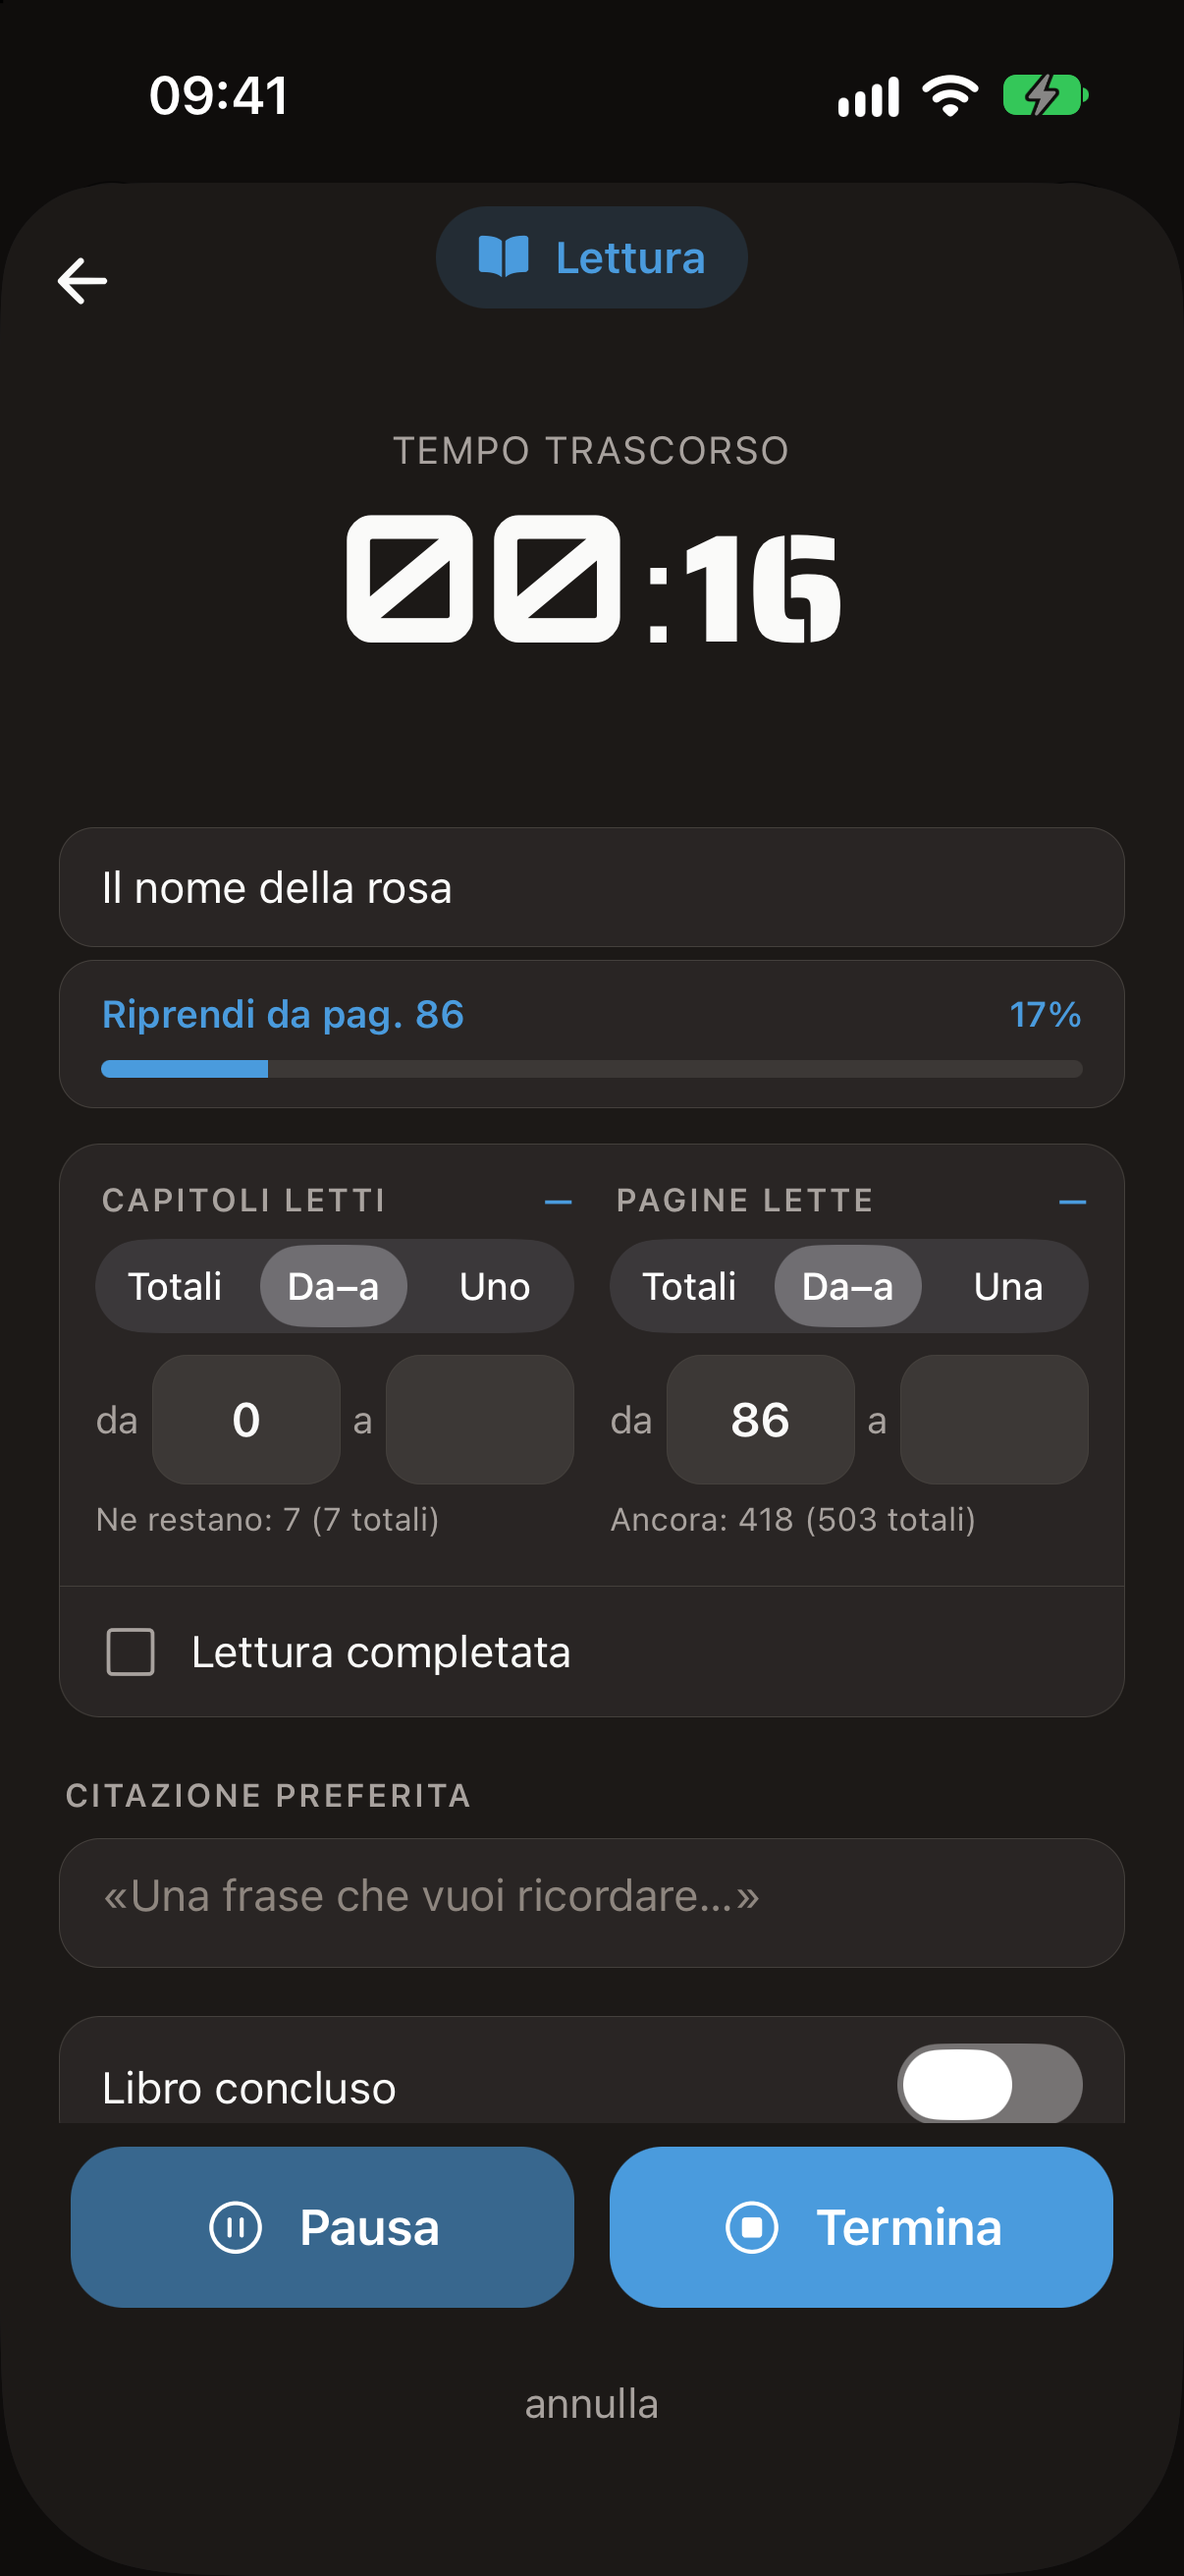
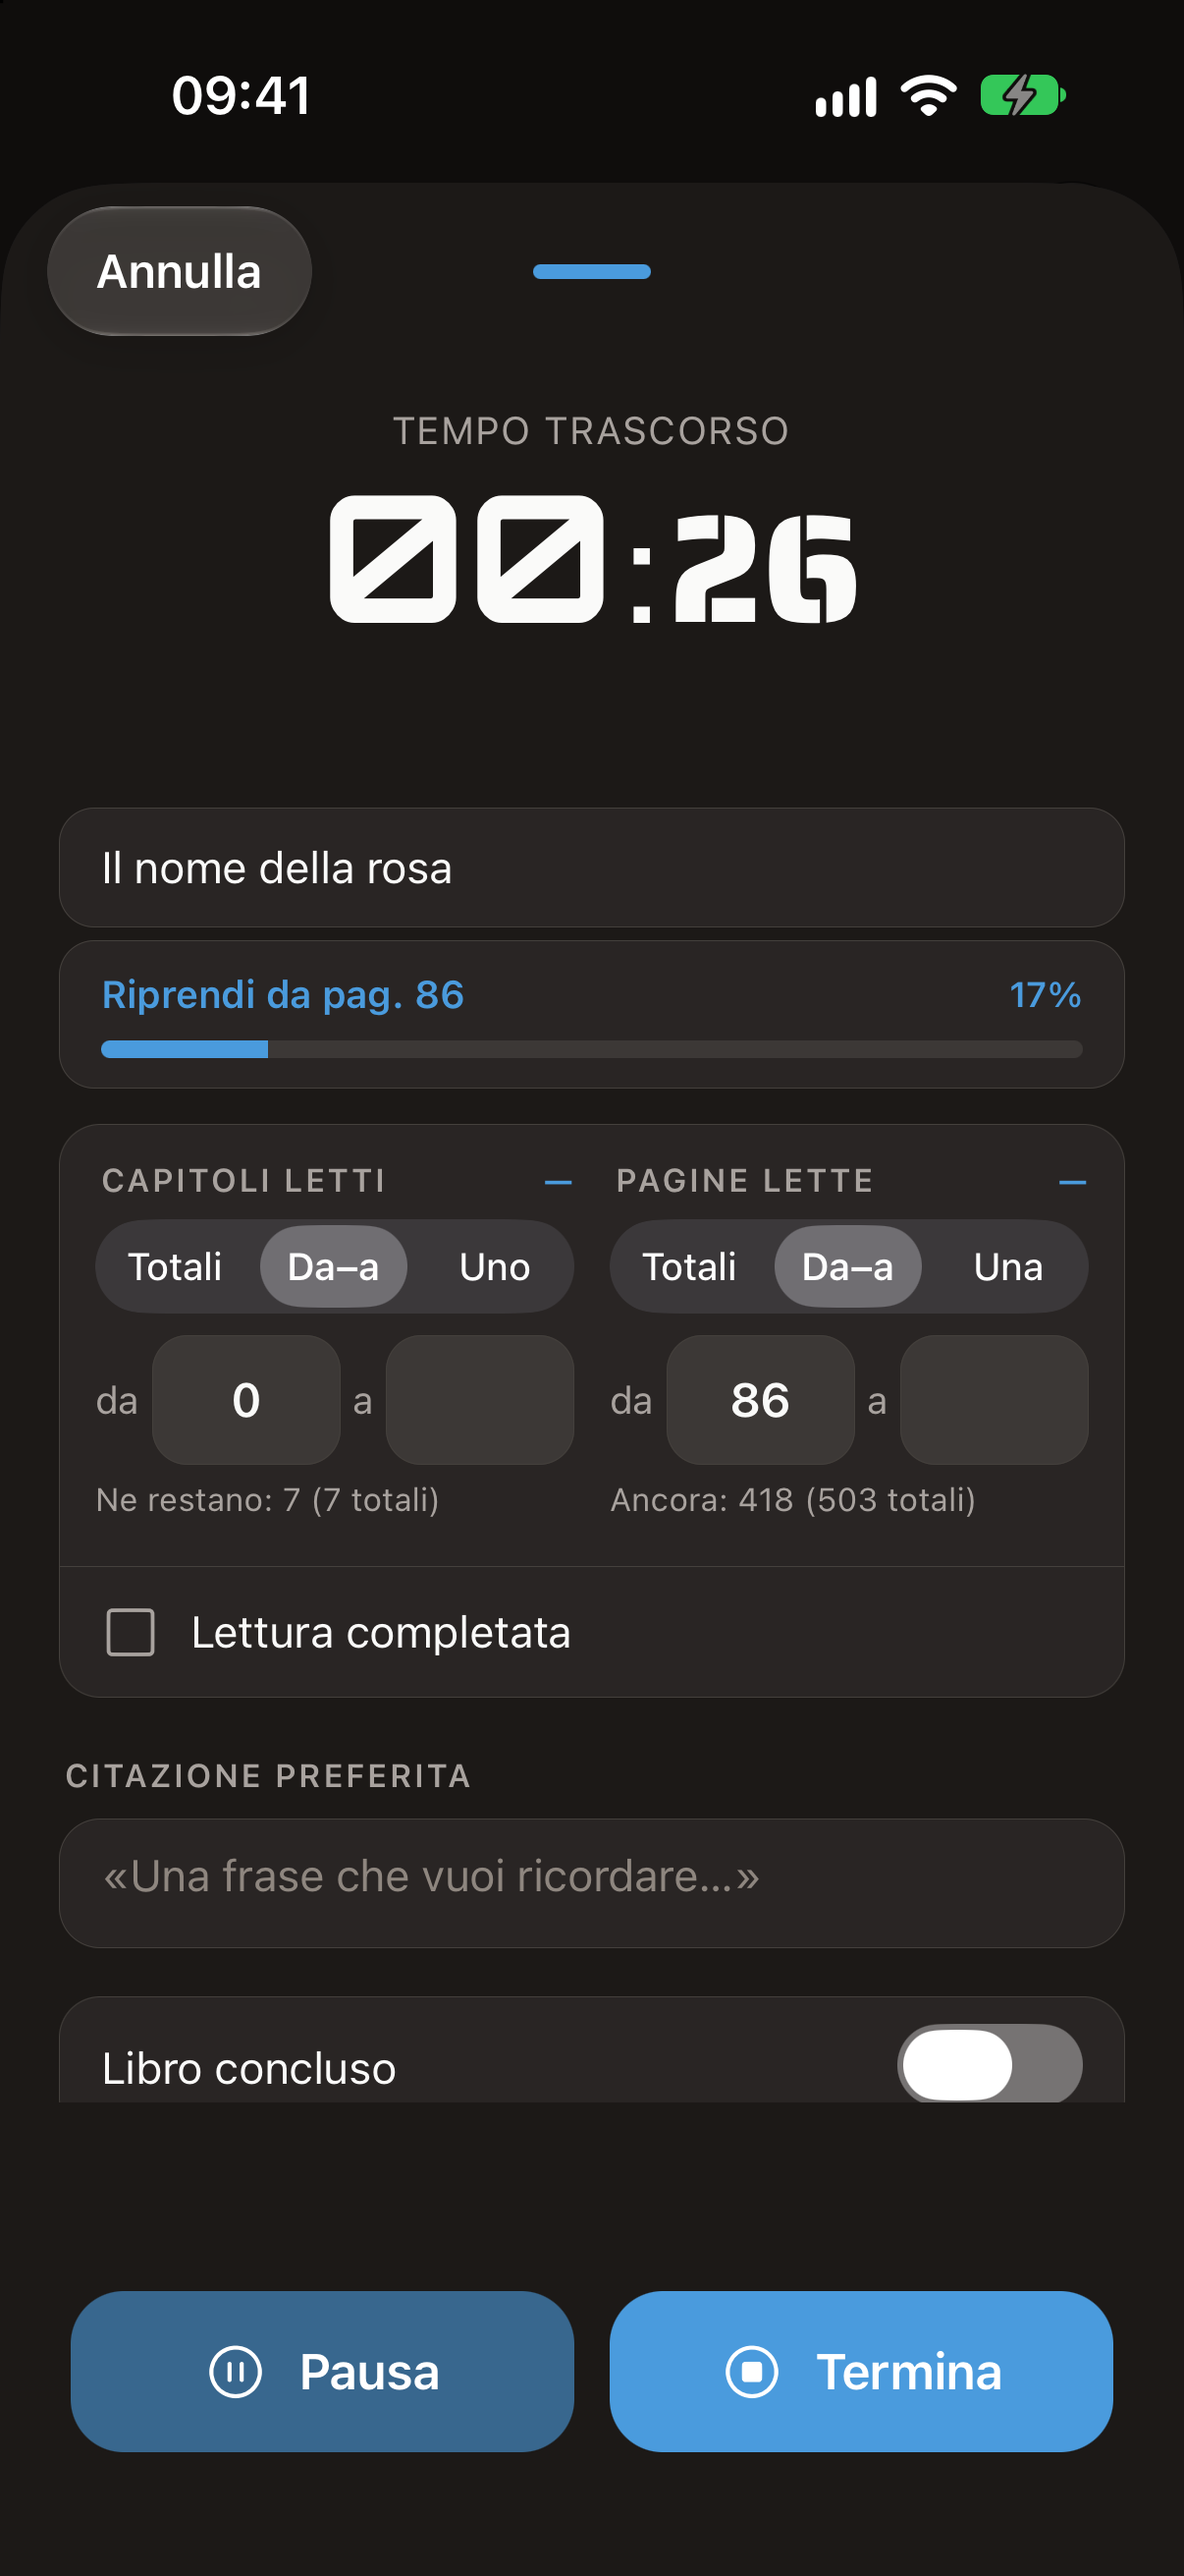
content: screenshot allineati alle app attuali
- Balance Life: registrazione dal vivo nuova (chiaro e scuro), scaffale
  della libreria attuale
- AirportShift: pagine Ore e Riepilogo dell'orologio a tessere
- Aperture delle pagine Scopri di più: stesso screenshot del primo capitolo
  nella cornice (con l'orologio accanto per AirportShift), al posto delle
  immagini già incorniciate di ottobre
- Tolte le immagini superate e non più usate

diff --git a/src/site/FeaturesPage.tsx b/src/site/FeaturesPage.tsx
@@ -1,5 +1,5 @@
 import { useEffect, useRef, useState, type CSSProperties, type ReactNode } from 'react'
-import { Phone, shot, useDark } from './Phone'
+import { Phone, shot } from './Phone'
 import { useParams } from 'react-router-dom'
 import { TLink as Link } from './TLink'
 import { apps, iosStoreUrl, androidStoreUrl, androidComingSoonText, detectOS, storeUrlFor } from './apps'
@@ -58,7 +58,9 @@ interface AppPage {
   heroFx: 'flap' | 'tilt'
   // Invito alla pagina /insieme.
   together: { title: Bi; desc: Bi }
-  hero: { name: string; fallback?: string }
+  // Telefono d'apertura: uno screenshot nella cornice (lo stesso file dei capitoli, così non invecchia a parte);
+  // watch = un orologio appoggiato accanto.
+  hero: { name: string; fallback?: string; watch?: string }
   headline: Bi
   tagline: Bi
   chapters: Chapter[]
@@ -77,7 +79,7 @@ const PAGES: Record<string, AppPage> = {
       title: { it: 'Usi anche Balance Life?', en: 'Using Balance Life too?' },
       desc: { it: 'Attiva la condivisione e i tuoi turni entrano nella giornata di Balance Life, senza uscire dal telefono.', en: 'Turn on sharing and your shifts show up in your Balance Life day, without leaving your phone.' },
     },
-    hero: { name: 'as-hero-framed', fallback: MockupCalendario },
+    hero: { name: 'as-hero', fallback: MockupCalendario, watch: 'as-watch' },
     headline: { it: 'Il tuo turno.\nA colpo d’occhio.', en: 'Your shift.\nAt a glance.' },
     tagline: {
       it: 'Carica il PDF dei turni di Aviation Service e AirportShift fa il resto: codici tradotti in orari, un calendario che si legge in un secondo, ore e straordinari già contati.',
@@ -163,7 +165,7 @@ const PAGES: Record<string, AppPage> = {
       },
       {
         motion: 'pop',
-        shots: [{ name: 'as-watch' }, { name: 'as-watch-quadrante' }, { name: 'as-watch-stack' }],
+        shots: [{ name: 'as-watch-ore' }, { name: 'as-watch-riepilogo' }, { name: 'as-watch-quadrante' }],
         eyebrow: { it: 'Apple Watch e Wear OS', en: 'Apple Watch and Wear OS' },
         title: { it: 'Il tuo turno.\nAl polso.', en: 'Your shift.\nOn your wrist.' },
         desc: {
@@ -215,7 +217,7 @@ const PAGES: Record<string, AppPage> = {
       title: { it: 'Lavori con Aviation Service?', en: 'Working with Aviation Service?' },
       desc: { it: 'Con AirportShift i tuoi turni entrano in Balance Life, e la giornata è completa.', en: 'With AirportShift your shifts come into Balance Life, and your day is complete.' },
     },
-    hero: { name: 'bl-hero-framed', fallback: BlHome },
+    hero: { name: 'bl-hero', fallback: BlHome },
     headline: { it: 'La tua giornata.\nIn equilibrio.', en: 'Your day.\nIn balance.' },
     tagline: {
       it: 'Lettura, palestra, lavoro, serie, studio: registra ciò che fai, pianifica ciò che conta e guarda il tempo prendere forma.',
@@ -250,7 +252,7 @@ const PAGES: Record<string, AppPage> = {
       },
       {
         motion: 'cross',
-        shots: [{ name: 'bl-libreria' }, { name: 'bl-lettura' }],
+        shots: [{ name: 'bl-libreria-nuovo' }, { name: 'bl-lettura' }],
         eyebrow: { it: 'Lettura', en: 'Reading' },
         title: { it: 'La tua libreria.\nPagina dopo pagina.', en: 'Your library.\nPage by page.' },
         desc: {
@@ -395,7 +397,6 @@ export function FeaturesPage() {
   const page = app ? PAGES[app] : undefined
   const t = useT()
   const os = detectOS()
-  const dark = useDark()
 
   if (!entry || !page) {
     return (
@@ -429,8 +430,8 @@ export function FeaturesPage() {
           <div className="fx-cta">{cta}</div>
         </div>
         <div className="fx-hero-shot">
-          {/* Immagine già nella cornice ufficiale Apple: niente cornice CSS */}
-          <img src={shot(page.hero.name, dark) ?? page.hero.fallback} alt={entry.appName} style={{ viewTransitionName: `phone-${app}` }} />
+          <Phone name={page.hero.name} fallback={page.hero.fallback} alt={entry.appName} vt={`phone-${app}`} />
+          {page.hero.watch && <Phone name={page.hero.watch} alt="" />}
         </div>
       </section>
 

diff --git a/src/site/styles.css b/src/site/styles.css
@@ -364,13 +364,12 @@ a:hover .fx-more .material-symbols-outlined { translate: 6px 0; }
 .fx-headline .w { display: inline-block; white-space: nowrap; }
 .fx-headline .ch { display: inline-block; }
 .fx-lead { margin: 26px 0 34px; max-width: 38ch; font-size: clamp(1.1rem, 2vw, 1.3rem); color: var(--muted); line-height: 1.45; }
-.fx-hero-shot { justify-self: center; }
-.fx-hero-shot img {
-  position: relative; display: block; height: min(640px, 75vh); max-width: 86vw; width: auto; object-fit: contain;
-  filter: drop-shadow(0 30px 40px rgb(0 0 0 / .22));
-}
+/* Larga quanto serve perché il telefono (1350×2760) stia in 640 px o nel 75% dello schermo in altezza. */
+.fx-hero-shot { justify-self: center; width: min(313px, 36.7vh, 66vw); }
+/* L'orologio si appoggia in basso a destra del telefono. */
+.fx-hero-shot > .fx-watch { position: absolute; right: -30%; bottom: 2%; width: 50%; z-index: 1; }
 .fx-hero-shot::before { inset: 8% -22%; filter: blur(64px); }
-.fx-hero-shot img, .ld-door-shots .fx-phone, .app-card-shot .fx-phone { view-transition-class: phone; }
+.fx-hero-shot > .fx-phone:first-child, .ld-door-shots .fx-phone, .app-card-shot .fx-phone { view-transition-class: phone; }
 
 /* Barra dell'app: dopo l'apertura resta in vista con i capitoli e il pulsante per scaricare.
    Su schermo largo sta in alto; su telefono in basso, dove sta la tab bar delle app. */
@@ -753,7 +752,7 @@ a:hover .fx-more .material-symbols-outlined { translate: 6px 0; }
     /* Scorrendo via dall'apertura: i telefoni della home si aprono, quello dell'app si allontana. */
     .ld-phone-a { animation: openA linear both; animation-timeline: scroll(root); animation-range: 0 80vh; }
     .ld-phone-b { animation: openB linear both; animation-timeline: scroll(root); animation-range: 0 80vh; }
-    .fx-hero-shot img { animation: away linear both; animation-timeline: scroll(root); animation-range: 0 90vh; }
+    .fx-hero-shot > .fx-phone { animation: away linear both; animation-timeline: scroll(root); animation-range: 0 90vh; }
 
     @media (max-width: 760px) {
       .fx-local { animation: local-in linear both; animation-timeline: scroll(root); animation-range: 45vh 75vh; }

diff --git a/CLAUDE.md b/CLAUDE.md
@@ -49,7 +49,7 @@ Page data requirements differ:
 
 `FeaturesPage.tsx` is Apple-style: a `PAGES` map per app with hero, `chapters` (1–2 phones each, alternating), `tiles` (secondary features, optional screenshot), privacy block and CTA. Screenshots are raw simulator shots (1206×2622) dropped into `src/AmmAppMockups/shots/` with the names listed in the owner's `*-screenshot.md` (e.g. `as-hero.png`, `bl-live.png`); `import.meta.glob` picks them up by name. Optional per-visitor variants: `<name>-dark.png`, `<name>-android.png`, `<name>-android-dark.png` (chosen by `detectOS()` + `prefers-color-scheme`, falling back to `<name>.png`; Android visitors get a squarer frame, `.fx-android`) and `Phone` (in `Phone.tsx`) draws the frame. A missing shot falls back to the old framed mockup, or to an empty frame labeled with the expected filename. Scroll reveal is the CSS `.fx-reveal` class (its `.ln` title lines, `.fx-desc` and `.fx-points` animate; titles are split into `.ln` spans by `lines()` in `lang.tsx`).
 
-Each `PAGES` entry also has `heroFx` (`'flap'`: the headline flips letter by letter like a departure board; `'tilt'`: it sways and levels like a scale) and `together` (copy of the card linking to `/insieme`). A chapter's `eyebrow` is no longer printed above its title: it is the chapter's label in the app bar (`.fx-local`), which sits after the hero, sticks to the top on desktop and to the bottom on phones, and carries the download button. `LocalNav` lights the chapter crossing the middle of the screen and scrolls the row to keep it visible; its links scroll the page without touching the URL, so the browser Back button leaves the page. Each chapter has a `motion` (how its phones enter: `.mo-*` classes), and a shot may have `then` (a second screenshot that takes over inside the same frame while scrolling; `'night'` = the same shot in the other theme).
+The hero phone is the same raw shot in the same frame (`hero.name`, plus an optional `hero.watch`): there are no pre-framed hero images to keep in sync. Each `PAGES` entry also has `heroFx` (`'flap'`: the headline flips letter by letter like a departure board; `'tilt'`: it sways and levels like a scale) and `together` (copy of the card linking to `/insieme`). A chapter's `eyebrow` is no longer printed above its title: it is the chapter's label in the app bar (`.fx-local`), which sits after the hero, sticks to the top on desktop and to the bottom on phones, and carries the download button. `LocalNav` lights the chapter crossing the middle of the screen and scrolls the row to keep it visible; its links scroll the page without touching the URL, so the browser Back button leaves the page. Each chapter has a `motion` (how its phones enter: `.mo-*` classes), and a shot may have `then` (a second screenshot that takes over inside the same frame while scrolling; `'night'` = the same shot in the other theme).
 
 ## Bilingual copy
 
